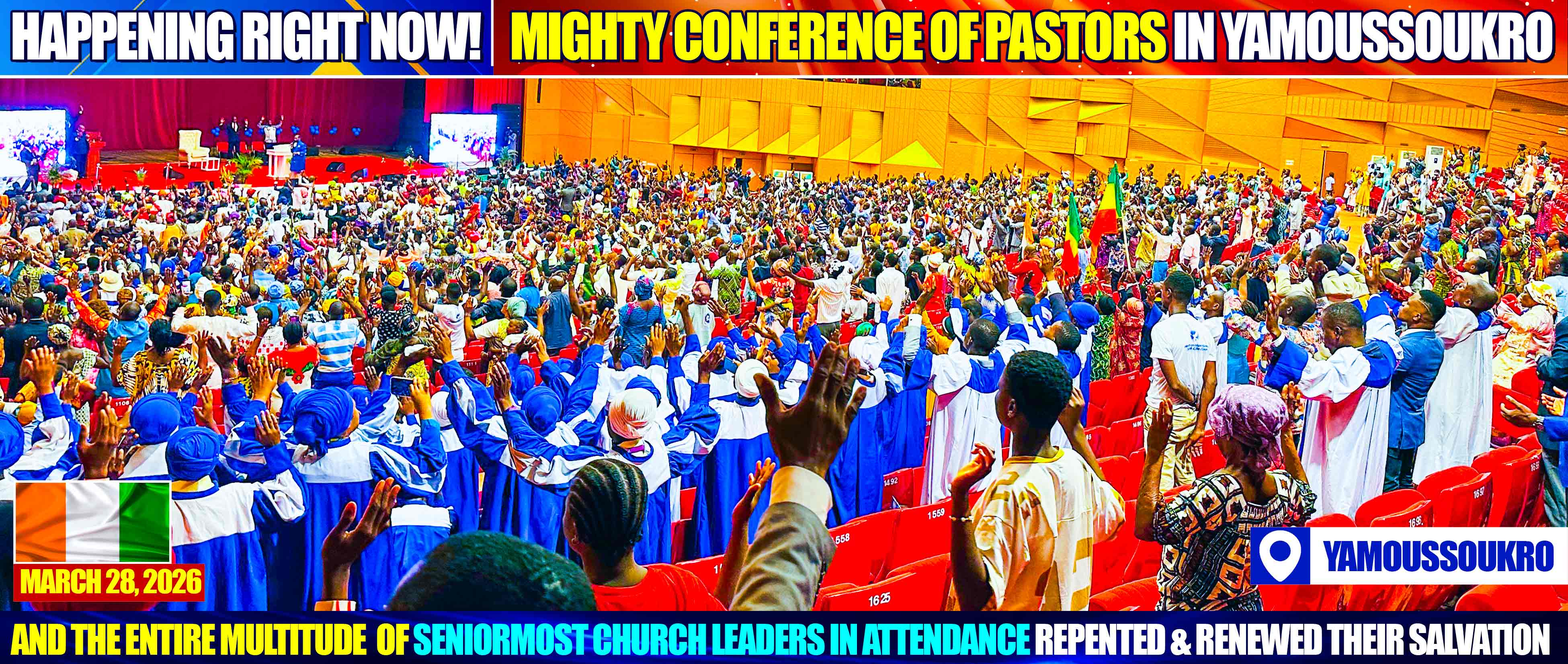
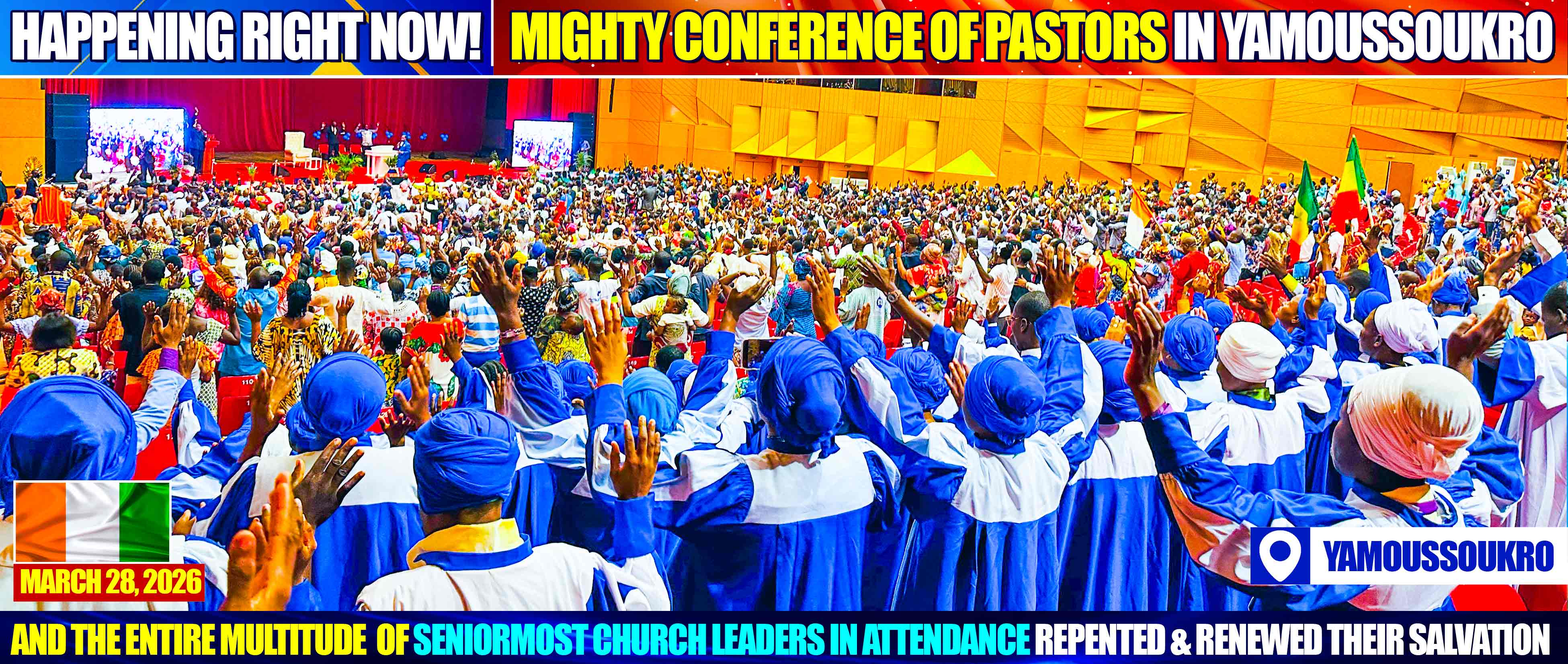
new

diff --git a/index.html b/index.html
@@ -28,7 +28,7 @@
 
 <img class="slideshow" src= "https://pub-9f92551086574e82abebdc7b9c83cf92.r2.dev/Abidjan%202026/Day%202/Pastor-crossing.jpg" alt="Unstable internet, please refresh">
 
-<img class="slideshow" src= "https://pub-9f92551086574e82abebdc7b9c83cf92.r2.dev/Abidjan%202026/Day%202/Pastor-crossing.jpg" alt="Unstable internet, please refresh">
+<img class="slideshow" src= "https://pub-9f92551086574e82abebdc7b9c83cf92.r2.dev/Abidjan%202026/Day%202/Salvation-1.jpg" alt="Unstable internet, please refresh">
 
 
 <img class="slideshow" src= "https://pub-9f92551086574e82abebdc7b9c83cf92.r2.dev/Abidjan%202026/1.%20Arrival/Skyline.jpg" alt="Unstable internet, please refresh the browser">
